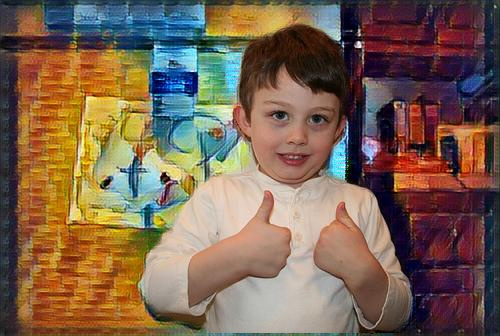
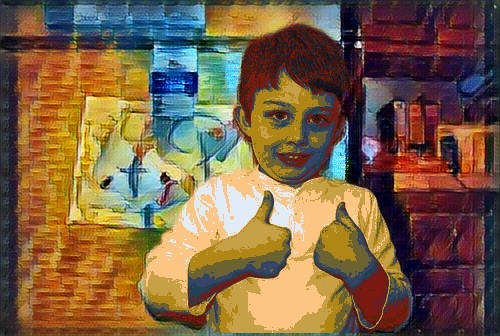
boundary optimization and color transfer

Changed region(s): [[0.27, 0.0595, 0.84, 1.0]]

diff --git a/combine.py b/combine.py
@@ -30,6 +30,7 @@ import subprocess
 import numpy
 from moviepy.video.io.VideoFileClip import VideoFileClip
 import moviepy.video.io.ffmpeg_writer as ffmpeg_writer
+import scipy
 
 ## LOAD CONFIG PARAMS ##
 VIDEO_INPUT     = 0
@@ -127,6 +128,32 @@ def load_frozenmodel():
             tf.import_graph_def(seg_graph_def, name='')
     return detection_graph
 
+def optimize_boundary(img, mask, depth):
+    img_edges = cv2.Canny(img, 200, 250)
+    dist_edges, inds = scipy.ndimage.morphology.distance_transform_edt(np.where(img_edges > 0, 0, 1), return_indices = True)
+    dist = scipy.ndimage.morphology.distance_transform_edt(mask)
+    q = []
+    visited = set()
+    m, n = mask.shape
+    for i in range(m):
+        for j in range(n):
+            if dist[i, j] == 1:
+                q.append([i, j])
+                visited.add(i*n+j)
+    while q:
+        i, j = q.pop(0)
+        if dist[i, j] >= depth:
+            break
+        if dist_edges[i, j] >= depth or dist_edges[i, j] == 0 or dist[inds[0, i, j], inds[1, i, j]] < dist[i, j] or dist[inds[0, i, j], inds[1, i, j]] > 30:
+            continue
+        mask[i, j] = 0
+        for x, y in [[i+1, j], [i-1, j], [i, j+1], [i, j-1]]:
+            if x < 0 or x >= m or y < 0 or y >= n or x*n+y in visited or mask[x, y] == 0 or dist[x, y] < dist[i, j]:
+                continue
+            q.append([x, y])
+            visited.add(x*n+y)
+    return img_edges, mask
+
 def segmentation_image(detection_graph, label_names, image_path, segmentation_save_path):
     print("log: Begin to do image segmentation")
     config = tf.ConfigProto(allow_soft_placement=True)
@@ -134,13 +161,14 @@ def segmentation_image(detection_graph, label_names, image_path, segmentation_sa
     with detection_graph.as_default():
         with tf.Session(graph=detection_graph) as sess:
             image = cv2.imread(image_path)
+            ori_image = image
             width, height, _ = image.shape
             resize_ratio = 1.0 * 513/ max(width, height)
             target_size = (int(resize_ratio * image.shape[1]), int(resize_ratio * image.shape[0]))
             image = cv2.resize(image, target_size)
             batch_seg_map = sess.run('SemanticPredictions:0', feed_dict={'ImageTensor:0': [cv2.cvtColor(image, cv2.COLOR_BGR2RGB)]})
             seg_map = batch_seg_map[0]
-            vis_segmentation(image, seg_map, segmentation_save_path)
+            #vis_segmentation(image, seg_map, segmentation_save_path)
             seg_image = create_colormap(seg_map).astype(np.uint8)
 
             cv2.addWeighted(seg_image,ALPHA,image,1-ALPHA,0,image)
@@ -149,7 +177,9 @@ def segmentation_image(detection_graph, label_names, image_path, segmentation_sa
             bin_mask = cal_bin_mask(seg_map)
             bin_mask = bin_mask / 255
             bin_mask = cv2.resize(bin_mask, (height, width))
-
+            u = min(height, width) // 30
+            img_edges, bin_mask = optimize_boundary(ori_image, bin_mask, u)
+            vis_segmentation(ori_image, (bin_mask*15).astype(np.int32), segmentation_save_path)
     return bin_mask
 
 def style_transfer(check_point, in_path, out_path, device_t='/gpu:0', batch_size=1):
@@ -246,14 +276,92 @@ def blend_images(fg_path, bg_path, mask):
     #cv2.imshow("out", out_image)
     return out_image
 
+def rgb_to_lab(v):
+    M1 = np.array([[0.3811, 0.5783, 0.0402], [0.1967, 0.7244, 0.0782], [0.0241, 0.1288, 0.8444]])
+    lms = M1.dot(v)
+    lms = np.where(lms > 0.0000000001, np.log10(lms), -10)
+    M2 = np.array([[0.57735, 0.57735, 0.57735], [0.40825, 0.40825, -0.8165], [0.70711, -0.70711, 0]])
+    lab = M2.dot(lms)
+    return lab
+    
+def color_transfer(img_path, style_image_path, style_data_path, output_path):
+    mStyle, nStyle = -1, -1
+    style = None
+    list_style = []
+    if os.path.exists(style_data_path):
+        for line in open(style_data_path):
+            tmp = line.split('\t')
+            if mStyle < 0:
+                mStyle, nStyle = int(tmp[0].strip()), int(tmp[1].strip())
+                style = np.zeros((mStyle, nStyle, 3))
+                continue
+            i, j, r, g, b = int(tmp[0].strip()), int(tmp[1].strip()), int(tmp[2].strip()), int(tmp[3].strip()), int(tmp[4].strip())
+            list_style.append([i, j, 1])
+            style[i, j] = [r, g, b]
+    else:
+        style = cv2.imread(style_image_path)
+        mStyle, nStyle = style.shape[0], style.shape[1]
+    
+        # 1d PCA
+        X = np.array([rgb_to_lab(v) for v in style.reshape((mStyle*nStyle, 3))])
+        l, v = np.linalg.eig(X.T.dot(X))
+        q = v[np.argmax(abs(l))]
+        if q.dot([1,1,1]) < 0:
+            q = -q
+        list_style = [[i, j, rgb_to_lab(style[i, j]).dot(q)] for i in range(mStyle) for j in range(nStyle)]
+    
+        list_style.sort(key = lambda x:x[2])
+        fout = open(style_data_path, 'w')
+        fout.write("%d\t%d\n"%(mStyle, nStyle))
+        for i, j, _ in list_style:
+            fout.write("%d\t%d\t%d\t%d\t%d\n" % (i, j, style[i, j, 0], style[i, j, 1], style[i, j, 2]))
+        fout.close()
+        
+
+    img = cv2.imread(img_path)
+    mImg, nImg = img.shape[0], img.shape[1]
+    
+    X = np.array([rgb_to_lab(v) for v in img.reshape((mImg*nImg, 3))])
+    l, v = np.linalg.eig(X.T.dot(X))
+    qImg = v[np.argmax(abs(l))]
+    if qImg.dot([1,1,1]) < 0:
+        qImg = -qImg
+
+    bucketImg = np.zeros(img.shape[:2])
+    bucket_count = {}
+    for i in range(mImg):
+        for j in range(nImg):
+            bucket = int(rgb_to_lab(img[i, j]).dot(qImg) * 10)
+            bucketImg[i, j] = bucket
+            bucket_count.setdefault(bucket, 0)
+            bucket_count[bucket] += 1
+    curr = 0
+    bucket_mapping = {}
+    sorted_buckets = sorted(bucket_count.keys())
+    for bucket in sorted_buckets:
+        bucket_mapping[bucket] = curr + bucket_count[bucket] // 2
+        curr += bucket_count[bucket]
+    
+    out_image = np.zeros_like(img)
+    for i in range(mImg):
+        for j in range(nImg):
+            bucket = bucketImg[i, j]
+            mapped_index = min(int(bucket_mapping[bucket] * mStyle * nStyle / mImg / nImg), mStyle*nStyle-1)
+            mapped_pos = list_style[mapped_index]
+            out_image[i, j] = style[mapped_pos[0], mapped_pos[1]]
+    cv2.imwrite(output_path, out_image)
+
 if __name__ == '__main__':
     STYLE_CPKT_PATH = "./models/"
     SAMPLE_PATH = "./_sample_images/"
     GLOBAL_STYLE_TRANSFER_PATH = "./_global_style_transfer_images/"
     REGION_BASED_STYLE_TRANSFER_PATH = "./_region_based_style_transfer_images/"
     SEGMENT_MASK_PATH = "./_segment_mask_images/"
+    GLOBAL_COLOR_TRANSFER_PATH = "./_color_transfer/_global_color_transfer_images/"
+    STYLE_DATA_PATH = "./_color_transfer/_style_data/"
+    STYLE_IMAGE_PATH = "./_style_images/"
 
-    sample_images = ["bird", "hong_ps", "boy", "rhino", "TLPS-7103_small", "VOC2010_18"]
+    sample_images = ["girl1", "girl2", "girl3", "man1", "man2", "VOC2010_18"]
     image_suffix_list = ["jpg", "jpg", "jpg", "jpg", "jpg", "jpg"]
     styles = ["la_muse", "rain_princess", "scream", "wreck", "udnie", "wave"]
 
@@ -261,9 +369,10 @@ if __name__ == '__main__':
         for style in styles:
             graph = load_frozenmodel()
             bin_mask = segmentation_image(graph, LABEL_NAMES, image_path="%s/%s.%s"%(SAMPLE_PATH, image_name, image_suffix), segmentation_save_path="%s/%s.jpg"%(SEGMENT_MASK_PATH, image_name))
-
+            
             style_transfer("%s%s.ckpt"%(STYLE_CPKT_PATH, style), "%s/%s.%s"%(SAMPLE_PATH, image_name, image_suffix), "%s/%s_%s.%s"%(GLOBAL_STYLE_TRANSFER_PATH, image_name, style, image_suffix))
 
-            blend_img = blend_images(fg_path="%s/%s.%s"%(SAMPLE_PATH, image_name, image_suffix), bg_path="%s/%s_%s.%s"%(GLOBAL_STYLE_TRANSFER_PATH, image_name, style, image_suffix), mask=bin_mask)
+            color_transfer("%s/%s.%s"%(SAMPLE_PATH, image_name, image_suffix), "%s/%s.jpg"%(STYLE_IMAGE_PATH, style), "%s/%s.txt"%(STYLE_DATA_PATH, style), "%s/%s_%s.%s"%(GLOBAL_COLOR_TRANSFER_PATH, image_name, style, image_suffix))
+            blend_img = blend_images(fg_path="%s/%s_%s.%s"%(GLOBAL_COLOR_TRANSFER_PATH, image_name, style, image_suffix), bg_path="%s/%s_%s.%s"%(GLOBAL_STYLE_TRANSFER_PATH, image_name, style, image_suffix), mask=bin_mask)
 
             cv2.imwrite("%s/blend_%s_%s.%s"%(REGION_BASED_STYLE_TRANSFER_PATH, image_name, style, image_suffix), blend_img)
